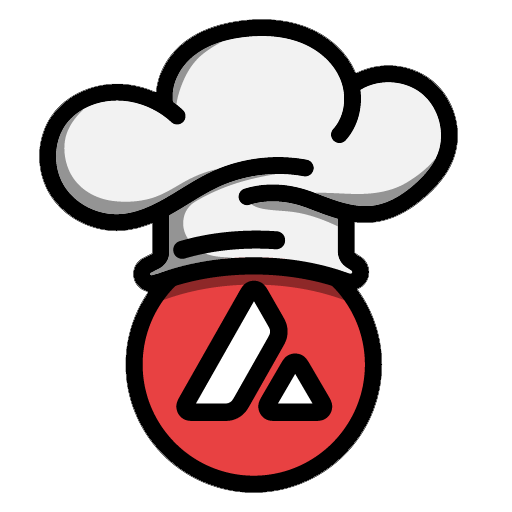
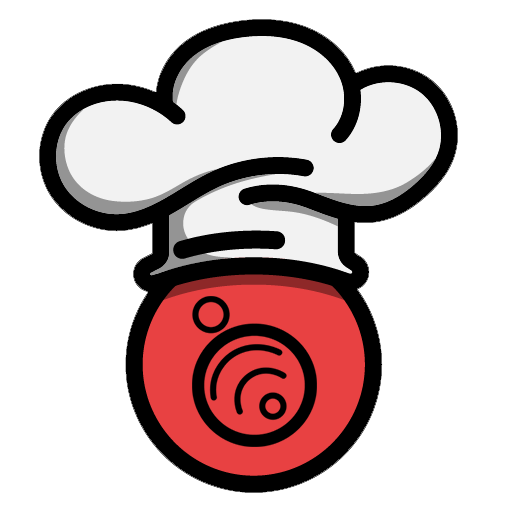
rebrand

Changed region(s): [[0.3438, 0.5312, 0.6562, 0.875]]

diff --git a/src/components/pages/Main.js b/src/components/pages/Main.js
@@ -3,9 +3,16 @@ import axios from "axios";
 import { ethers, Contract } from "ethers";
 import { AVAXCOOKS_ABI, AVAXCOOKS_ADDRESS } from "../Contracts/AvaxCooks";
 import avaxcooks from '../../assets/avaxcook_trans.png';
+import logo from "../../assets/iprs2.png";
+import { useNavigate } from "react-router-dom";
 
 const Main = ({account}) => {
     const { setTxProcessing, txProcessing } = useState();
+    const navigate = useNavigate();
+    const goToGallery = () => {
+        navigate('/gallery');
+      };
+    
     const [recipeDetails, setRecipeDetails] = useState({
         recipeName: '',
         category: '',
@@ -291,8 +298,8 @@ const uploadMetadataToIPFS = async (metadata) => {
   
     return (
         <div className="relative min-h-screen">
-             <div className="py-8 md:py-0"><div className="mx-auto w-96 h-96 pointer-events-none block md:hidden pb-8">
-                <svg id="Layer_1" data-name="Layer 1" xmlns="http://www.w3.org/2000/svg" viewBox="0 0 419.18 474.09">
+             <div className="py-8 md:py-0"><div className="mx-auto pointer-events-none block md:hidden md:pb-8">
+                {/*<svg id="Layer_1" data-name="Layer 1" xmlns="http://www.w3.org/2000/svg" viewBox="0 0 419.18 474.09">
                     <defs>
                         <style>
                             {`.cls-1 { fill: #e84142; fill-rule: evenodd; }
@@ -325,14 +332,19 @@ const uploadMetadataToIPFS = async (metadata) => {
     <path class="cls-2" d="M155.19,227.32c-8.33-8.01-12.81-17.37-10.43-28.94,0-.04.01-.07.02-.11,1.36-6.52,5.52-12.11,11.22-15.56,8.57-5.19,17.67-9.59,26.91-13.34,17.04-6.92,34.96-11.22,53.13-14.15-19.62.44-39.16,4.9-56.93,13.23-9.75,4.57-18.87,10.17-28.53,16.11-.61.38-1.23.76-1.85,1.13h0c-2.11,1.3-4.26,2.61-6.42,3.91-.26.15-.51.31-.77.46-2.14,1.29-4.31,2.57-6.48,3.81-1.48.85-3.03,1.71-4.62,2.58v36.85c0,6.9-3.81,13.16-9.95,16.32l-8.61,4.44c-.38.2-.61.58-.61,1.01,0,.37.15.67.44.9.29.23.63.29.98.19l6.5-1.76c22.52-8.3,47.66-13.52,73.71-15.41-2.61-.37-5.27-.53-8.01-.68-11.42-.62-21.25-2.86-29.71-10.99Z"/>
     <path class="cls-2" d="M268.41,189.27c-19.21-7.31-38.35-8.63-55.53-3.9,3.43,2.52,7.86,3.79,12.18,4.53,9.53,1.65,19.26,1.67,28.84,2.94,15.35,2.02,30.65,7.59,44.88,14.33v-7.18c-9.02-2.54-17.85-5.92-26.55-9.25l-3.83-1.46Z"/>
   </g>
-                </svg>
+                </svg>*/}
             </div></div>
-        <div className="relative text-xl text-avax-white p-8 px-4 md:px-36 lg:px-40 xl:px-96">Welcome to Avax Cooks! The first world-wide, crowd sourced, on chain cook book! Submit your recipe to the soon to be largest recipe database worldwide! Stake your claim and mint your recipes!</div>
+            <div className="pb-16 justify-center items-center md:pt-36"> <button onClick={goToGallery} className="bg-avax-red hover:bg-red-700 text-black rounded-md p-4 font-bold text-xl w-2/4 h-24">
+            iprs database
+        </button></div>
+        <div className="relative text-xl text-avax-white p-8 px-4 md:px-36 lg:px-40 xl:px-96">Welcome to the iprs or inter-planetary recipe system. The first world-wide, crowd sourced, on chain cook book! Submit your recipe to the soon to be largest recipe database worldwide! Stake your claim and mint your recipes! All metadata is stored securely on the ipfs or inter-planetary file system, so you know your data will be safe for centuries to come.</div>
        
-        
-        <div className="text-xl text-avax-white pb-8 px-4 md:px-36 lg:px-40 xl:px-96">It's easy. Just choose an image to upload that will represent your recipe, then enter in as much data as possible about the recipe. Better data = better search results. It costs 0.05 avax to submit your recipe, which at the time is around $1USD and this fee should discourage spammers.</div>
-        <div className="text-xl text-avax-white pb-8 px-4 md:px-36 lg:px-40 xl:px-96">Have fun, Rep your Communities and lets build..</div>
-        <div className="pb-4"> <button onClick={handleReset} className="bg-avax-red hover:bg-red-700 rounded-md p-4 font-bold text-xl">
+       
+        <div className="text-xl text-avax-white pb-8 px-4 md:px-36 lg:px-40 xl:px-96 pt-4">Visit the recipes by entering the iprs database above.</div>
+        <div className="text-xl text-avax-white pb-8 px-4 md:px-36 lg:px-40 xl:px-96">It's easy. Just choose an image to upload that will represent your recipe, then enter in as much data as possible about the recipe. Better data = better search results. It costs 0.01 avax to submit your recipe, which at the time is around $0.35USD and this fee should discourage spammers.</div>
+      
+        <div className="text-xl text-avax-white pb-8 px-4 md:px-36 lg:px-40 xl:px-96">Secure good food for centuries to come. Mint your recipes today..</div>
+        <div className="pb-4"><button onClick={handleReset} className="bg-avax-red hover:bg-red-700 rounded-md p-4 font-bold text-xl">
             Reset Form
         </button></div>
             <div className="sm:max-w-md md:max-w-xl mx-auto p-4 bg-avax-black text-gray-100 shadow-lg rounded-lg relative z-10 opacity-95">
@@ -597,7 +609,8 @@ const uploadMetadataToIPFS = async (metadata) => {
             </div>
                  {/* Bottom-left Fixed Image */}
                  <div className="fixed bottom-20 left-10 w-96 h-96 pointer-events-none z-0 hidden md:block">
-                <svg id="Layer_1" data-name="Layer 1" xmlns="http://www.w3.org/2000/svg" viewBox="0 0 419.18 474.09">
+                    <img src={logo}></img>
+               {/* <svg id="Layer_1" data-name="Layer 1" xmlns="http://www.w3.org/2000/svg" viewBox="0 0 419.18 474.09">
                     <defs>
                         <style>
                             {`.cls-1 { fill: #e84142; fill-rule: evenodd; }
@@ -630,7 +643,7 @@ const uploadMetadataToIPFS = async (metadata) => {
     <path class="cls-2" d="M155.19,227.32c-8.33-8.01-12.81-17.37-10.43-28.94,0-.04.01-.07.02-.11,1.36-6.52,5.52-12.11,11.22-15.56,8.57-5.19,17.67-9.59,26.91-13.34,17.04-6.92,34.96-11.22,53.13-14.15-19.62.44-39.16,4.9-56.93,13.23-9.75,4.57-18.87,10.17-28.53,16.11-.61.38-1.23.76-1.85,1.13h0c-2.11,1.3-4.26,2.61-6.42,3.91-.26.15-.51.31-.77.46-2.14,1.29-4.31,2.57-6.48,3.81-1.48.85-3.03,1.71-4.62,2.58v36.85c0,6.9-3.81,13.16-9.95,16.32l-8.61,4.44c-.38.2-.61.58-.61,1.01,0,.37.15.67.44.9.29.23.63.29.98.19l6.5-1.76c22.52-8.3,47.66-13.52,73.71-15.41-2.61-.37-5.27-.53-8.01-.68-11.42-.62-21.25-2.86-29.71-10.99Z"/>
     <path class="cls-2" d="M268.41,189.27c-19.21-7.31-38.35-8.63-55.53-3.9,3.43,2.52,7.86,3.79,12.18,4.53,9.53,1.65,19.26,1.67,28.84,2.94,15.35,2.02,30.65,7.59,44.88,14.33v-7.18c-9.02-2.54-17.85-5.92-26.55-9.25l-3.83-1.46Z"/>
   </g>
-                </svg>
+                </svg>*/}
             </div>
      
         </div>

diff --git a/src/components/pages/NFTCard.js b/src/components/pages/NFTCard.js
@@ -273,23 +273,34 @@ const NFTCard = ({ token, account, showBookmarks, galleryLikes, onTipsFetch }) =
   let amount;
 
   return (
-    <div className={`text-white border p-4 m-2 shadow-md rounded-lg bg-avax-black border-avax-black transition-all duration-300 ease-in-out ${showDetails ? 'fixed inset-0 z-50 h-screen overflow-y-auto pt-24' : 'w-full md:w-3/4 lg:w-1/5'} ${showBookmarks ? (hasBookmarked ? 'block' : 'hidden') : 'block'}`}>
-
+    <div className={`text-white border pr-4 pl-4 pb-4 pt-2 m-2 shadow-md rounded-lg bg-avax-black border-avax-black transition-all duration-300 ease-in-out ${showDetails ? 'fixed inset-0 z-50 h-screen overflow-y-auto pt-24' : 'w-full md:w-3/4 lg:w-1/5'} ${showBookmarks ? (hasBookmarked ? 'block' : 'hidden') : 'block'}`}>
+ 
       {/* Display the imageUri if it exists */}
-      <div className="pt-4">
-      {imageUri ? (
-        <img
-          src={`https://gateway.pinata.cloud/ipfs/${imageUri.split("ipfs://")[1]}`}
-          alt={name}
-          className="mx-auto w-full object-cover rounded hover:scale-105 cursor-pointer duration-300 border-zinc-900 border-8 max-w-[100vw] sm:max-w-[80vw] md:max-w-[50vw] lg:max-w-[33vw]"
-          onClick={() => window.open(`https://campfire.exchange/collections/0x568863597b44AA509a45C15eE3Cab3150a562d32/${tokenId}`, '_blank')}
-        />
-      ) : (
-        <div className="w-full h-48 bg-avax-black flex items-center justify-center rounded">
-          No Image Available
+      <div className="relative pt-4">
+  {imageUri ? (
+    <div className="relative group">
+      <img
+        src={`https://gateway.pinata.cloud/ipfs/${imageUri.split("ipfs://")[1]}`}
+        alt={name}
+        className="mx-auto w-full object-cover rounded duration-300 border-zinc-900 border-8 max-w-[100vw] sm:max-w-[80vw] md:max-w-[50vw] lg:max-w-[33vw] group-hover:scale-105"
+      />
+      {/* Toggle button for showing/hiding details */}
+      <button onClick={toggleDetails} className="absolute top-0 right-0 p-2">
+        <div style={{ transform: `rotate(${showDetails ? '135deg' : '0deg'})`, transition: 'transform 0.3s ease' }}>
+          <svg xmlns="http://www.w3.org/2000/svg" width="24" height="24" fill="currentColor" className="bi bi-plus" viewBox="0 0 16 16">
+            <path fillRule="evenodd" d="M8 3.5a.5.5 0 0 1 .5.5v4.5h4.5a.5.5 0 0 1 0 1H8.5v4.5a.5.5 0 0 1-1 0V9.5H3a.5.5 0 0 1 0-1h4.5V4a.5.5 0 0 1 .5-.5z"/>
+          </svg>
         </div>
-      )}
+      </button>
+    </div>
+  ) : (
+    <div className="w-full h-48 bg-avax-black flex items-center justify-center rounded">
+      No Image Available
+    </div>
+  )}
 </div>
+
+
       <h2 className="font-bold text-lg xl:text-2xl mt-2 text-center pt-8">{name || "Unnamed Recipe"}</h2>
       <h2 className="font-bold text-lg mt-2 text-center pb-8">{`Contributor: ${contributor || "None"}`}</h2>
       {/* Row for Like button and count */}
@@ -332,21 +343,21 @@ const NFTCard = ({ token, account, showBookmarks, galleryLikes, onTipsFetch }) =
       <div className="pb-4"><input
         type="number"
         placeholder="Tip Amount"
+        disabled={!account}
         value={tipAmount}
         onChange={(e) => setTipAmount(e.target.value)}
         className="shadow appearance-none border rounded py-2 px-3 bg-zinc-800 border-zinc-700 text-gray-100 leading-tight focus:outline-none focus:shadow-outline w-full"
       /></div>
 
-      {/* Token Selection Dropdown */}
-      <select
+    {/* Token Selection Dropdown */}
+    <select
         value={selectedToken}
         onChange={(e) => setSelectedToken(e.target.value)}
-        className="shadow border rounded w-full py-2 px-3 text-gray-100 bg-zinc-700 border-zinc-800 leading-tight focus:outline-none focus:shadow-outline"
+        disabled={!account}  // Disable if there is no account connected
+        className={`shadow border rounded w-full py-2 px-3 text-gray-100 bg-zinc-700 border-zinc-800 leading-tight focus:outline-none ${account ? 'opacity-100' : 'opacity-50 cursor-not-allowed'}`}
       >
         {availableTokens.map((token, index) => (
-          <option key={index} value={token.symbol}>
-            {token.symbol}
-          </option>
+          <option key={index} value={token.symbol}>{token.symbol}</option>
         ))}
       </select>
       <div className="pt-4">
@@ -355,12 +366,7 @@ const NFTCard = ({ token, account, showBookmarks, galleryLikes, onTipsFetch }) =
           Tip Recipe Holder
         </button>
       </div>
-      {/* Toggle button for showing/hiding details */}
-      <button onClick={toggleDetails} className="flex items-center justify-center w-full p-2">
-        <div style={{ transform: showDetails ? 'rotate(180deg)' : 'rotate(0deg)', transition: 'transform 0.3s' }}>
-          <svg xmlns="http://www.w3.org/2000/svg" viewBox="0 0 24 24" width="24" height="24" fill="currentColor"><path d="M7 10l5 5 5-5z"/></svg>
-        </div>
-      </button>
+    
       {/* Details section that shows attributes */}
       {showDetails && (
   <div className="grid grid-cols-2 gap-4 p-4">

diff --git a/src/components/pages/Gallery.js b/src/components/pages/Gallery.js
@@ -6,6 +6,7 @@ import { ethers, Contract } from "ethers";
 import { AVAXCOOKSLIKESANDTIPS_ABI, AVAXCOOKSLIKESANDTIPS_ADDRESS } from '../Contracts/AvaxCooksLikeAndTip';
 import TipDisplay from "../TipDisplay";
 import rebrand from "../../assets/rebrand.png";
+import logo from "../../assets/iprs2.png";
 
 
 const Gallery = ({ account }) => {
@@ -157,9 +158,10 @@ const Gallery = ({ account }) => {
 
   return (
     <div className="container mx-auto p-4 pt-8 md:pt-4">
-      <h1 className="text-4xl pb-16 pt-8 font-bold mb-4 text-avax-white">The Cook Book</h1>
+      <h1 className="text-6xl pb-16 pt-8 font-bold mb-4 text-avax-white">iprs</h1>
       <div className="py-8 pb-24 md:py-0 mx-auto"><div className="mx-auto w-72 h-72 pointer-events-none block md:hidden pb-8">
-                <svg id="Layer_1" data-name="Layer 1" xmlns="http://www.w3.org/2000/svg" viewBox="0 0 419.18 474.09">
+        <img src={logo}></img>
+                {/*<svg id="Layer_1" data-name="Layer 1" xmlns="http://www.w3.org/2000/svg" viewBox="0 0 419.18 474.09">
                     <defs>
                         <style>
                             {`.cls-1 { fill: #e84142; fill-rule: evenodd; }
@@ -192,11 +194,11 @@ const Gallery = ({ account }) => {
     <path class="cls-2" d="M155.19,227.32c-8.33-8.01-12.81-17.37-10.43-28.94,0-.04.01-.07.02-.11,1.36-6.52,5.52-12.11,11.22-15.56,8.57-5.19,17.67-9.59,26.91-13.34,17.04-6.92,34.96-11.22,53.13-14.15-19.62.44-39.16,4.9-56.93,13.23-9.75,4.57-18.87,10.17-28.53,16.11-.61.38-1.23.76-1.85,1.13h0c-2.11,1.3-4.26,2.61-6.42,3.91-.26.15-.51.31-.77.46-2.14,1.29-4.31,2.57-6.48,3.81-1.48.85-3.03,1.71-4.62,2.58v36.85c0,6.9-3.81,13.16-9.95,16.32l-8.61,4.44c-.38.2-.61.58-.61,1.01,0,.37.15.67.44.9.29.23.63.29.98.19l6.5-1.76c22.52-8.3,47.66-13.52,73.71-15.41-2.61-.37-5.27-.53-8.01-.68-11.42-.62-21.25-2.86-29.71-10.99Z"/>
     <path class="cls-2" d="M268.41,189.27c-19.21-7.31-38.35-8.63-55.53-3.9,3.43,2.52,7.86,3.79,12.18,4.53,9.53,1.65,19.26,1.67,28.84,2.94,15.35,2.02,30.65,7.59,44.88,14.33v-7.18c-9.02-2.54-17.85-5.92-26.55-9.25l-3.83-1.46Z"/>
   </g>
-                </svg>
+                </svg>*/}
               
             </div></div>
             
-            <div className="flex flex-col md:flex-row items-center justify-center w-full space-y-2 md:space-y-0 sm:space-x-2 mt-2 pb-4">
+            <div className="flex flex-col md:flex-row items-center justify-center w-full space-y-2 md:space-y-0 sm:space-x-2 mt-2 pb-24">
       
   {/* Search attributes input */}
   <div className="flex-1 w-full pl-3 pr-1">
@@ -289,8 +291,8 @@ const Gallery = ({ account }) => {
       {loading && <p>Loading...</p>}
          {/* Bottom-left Fixed Image */}
          <div className="fixed bottom-20 left-10 w-96 h-96 pointer-events-none z-0 hidden md:block opacity-100">
-          {/*}<img src={rebrand}></img>*/} 
-                <svg id="Layer_1" data-name="Layer 1" xmlns="http://www.w3.org/2000/svg" viewBox="0 0 419.18 474.09">
+          <img src={logo}></img>
+                {/*<svg id="Layer_1" data-name="Layer 1" xmlns="http://www.w3.org/2000/svg" viewBox="0 0 419.18 474.09">
                     <defs>
                         <style>
                             {`.cls-1 { fill: #e84142; fill-rule: evenodd; }
@@ -323,7 +325,7 @@ const Gallery = ({ account }) => {
     <path class="cls-2" d="M155.19,227.32c-8.33-8.01-12.81-17.37-10.43-28.94,0-.04.01-.07.02-.11,1.36-6.52,5.52-12.11,11.22-15.56,8.57-5.19,17.67-9.59,26.91-13.34,17.04-6.92,34.96-11.22,53.13-14.15-19.62.44-39.16,4.9-56.93,13.23-9.75,4.57-18.87,10.17-28.53,16.11-.61.38-1.23.76-1.85,1.13h0c-2.11,1.3-4.26,2.61-6.42,3.91-.26.15-.51.31-.77.46-2.14,1.29-4.31,2.57-6.48,3.81-1.48.85-3.03,1.71-4.62,2.58v36.85c0,6.9-3.81,13.16-9.95,16.32l-8.61,4.44c-.38.2-.61.58-.61,1.01,0,.37.15.67.44.9.29.23.63.29.98.19l6.5-1.76c22.52-8.3,47.66-13.52,73.71-15.41-2.61-.37-5.27-.53-8.01-.68-11.42-.62-21.25-2.86-29.71-10.99Z"/>
     <path class="cls-2" d="M268.41,189.27c-19.21-7.31-38.35-8.63-55.53-3.9,3.43,2.52,7.86,3.79,12.18,4.53,9.53,1.65,19.26,1.67,28.84,2.94,15.35,2.02,30.65,7.59,44.88,14.33v-7.18c-9.02-2.54-17.85-5.92-26.55-9.25l-3.83-1.46Z"/>
   </g>
-                </svg>
+                </svg>*/}
             </div>
            
     </div>

diff --git a/src/components/Nav.jsx b/src/components/Nav.jsx
@@ -14,8 +14,6 @@ export const Nav = ({
 }) => {
 
   let Links = [
-
-    //{ name: "Avax Cooks", link: "" },
     { name: "Home", link: "/" },
     { name: "View Recipes", link: "/gallery" },
     { name: "Getting Started", link: "/faq" },
@@ -24,20 +22,21 @@ export const Nav = ({
 
   const [open, setOpen] = useState(false);
   console.log(account);
+
   return (
     <nav className="main-nav pb-20 md:pb-20 lg:pb-15 xl:pb-15 2xl:pb-15 z-10 relative">
-      <div className="shadow-sm w-full fixed top-0 left-0 pb-0 md:pb-4 sm:pb-4 bg-avax-red pt-4">
+      <div className="shadow-sm w-full fixed top-0 left-0 bg-avax-red pt-4 sm:pb-2">
         <div className="flex items-center justify-between bg-avax-red py-0 px-7">
           <div className="desktop-nav">
             <ul
-              className={`overflow-y-visible xl:flex xl:items-center md:pb-0 sm:pb-0 absolute xl:static bg-avax-red z-10 
-    left-0 sm:w-full md:w-1/3 xl:w-auto xl:pl-0 pl-0 transition-all duration-300 ease-in ${open ? "top-[75px] opacity-100] overflow-y-visible" : "top-[-550px]"
+              className={`overflow-y-visible xl:flex xl:items-center absolute xl:static bg-avax-red z-10
+                left-0 sm:w-full md:w-1/3 xl:w-auto xl:pl-0 pl-0 transition-all duration-300 ease-in ${open ? "md:top-[60px] sm:top-[85px] opacity-100 overflow-y-visible shadow-md" : "top-[-200px] md:top-[-200px]"
                 }`}
             >
-              {/*<img src={truck} className={`h-12 pl-4 pt-0 ${open ? "hidden" : "block"
-                }`} />*/}
-
-              <div className="text-3xl font-bold hidden lg:block">AVAX COOKS</div>
+              <div className="text-3xl font-bold hidden xl:flex items-end">
+                iprs
+                <div className="text-xs ml-2">inter-planetary recipe system</div>
+              </div>
               {Links.map((link) => (
                 <li
                   key={link.name}
@@ -56,12 +55,15 @@ export const Nav = ({
                 </li>
               ))}
             </ul>
+          </div><div className="text-3xl font-bold xl:hidden lg:flex items-end pl-32 pb-2">
+            iprs
+            <div className="text-xs ml-2">inter-planetary recipe system</div>
           </div>
           <div
             onClick={() => setOpen(!open)}
             className="text-3xl absolute left-8 top-6 cursor-pointer xl:hidden z-10"
           >
-            <GiHamburgerMenu name={open ? "close" : "menu"} />
+            <GiHamburgerMenu />
           </div>
           <LogoutButton
             account={account}
